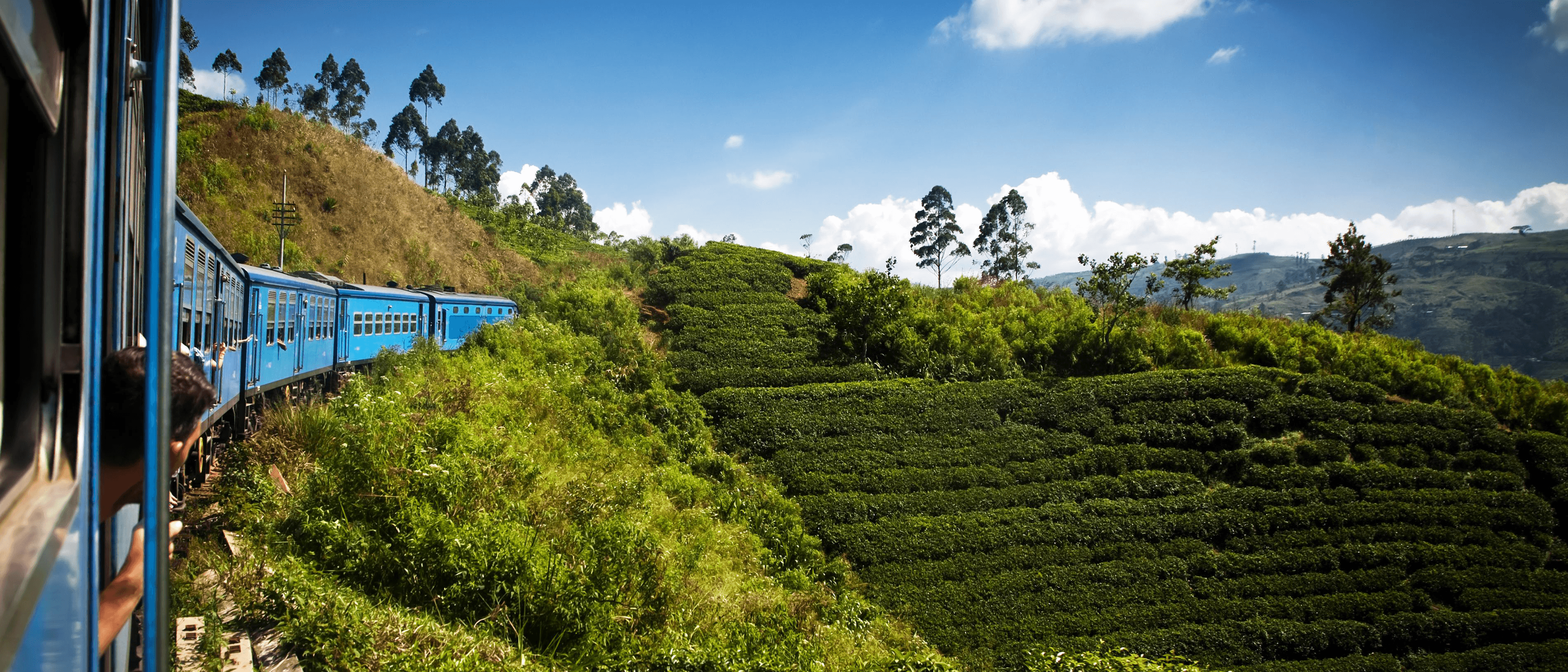
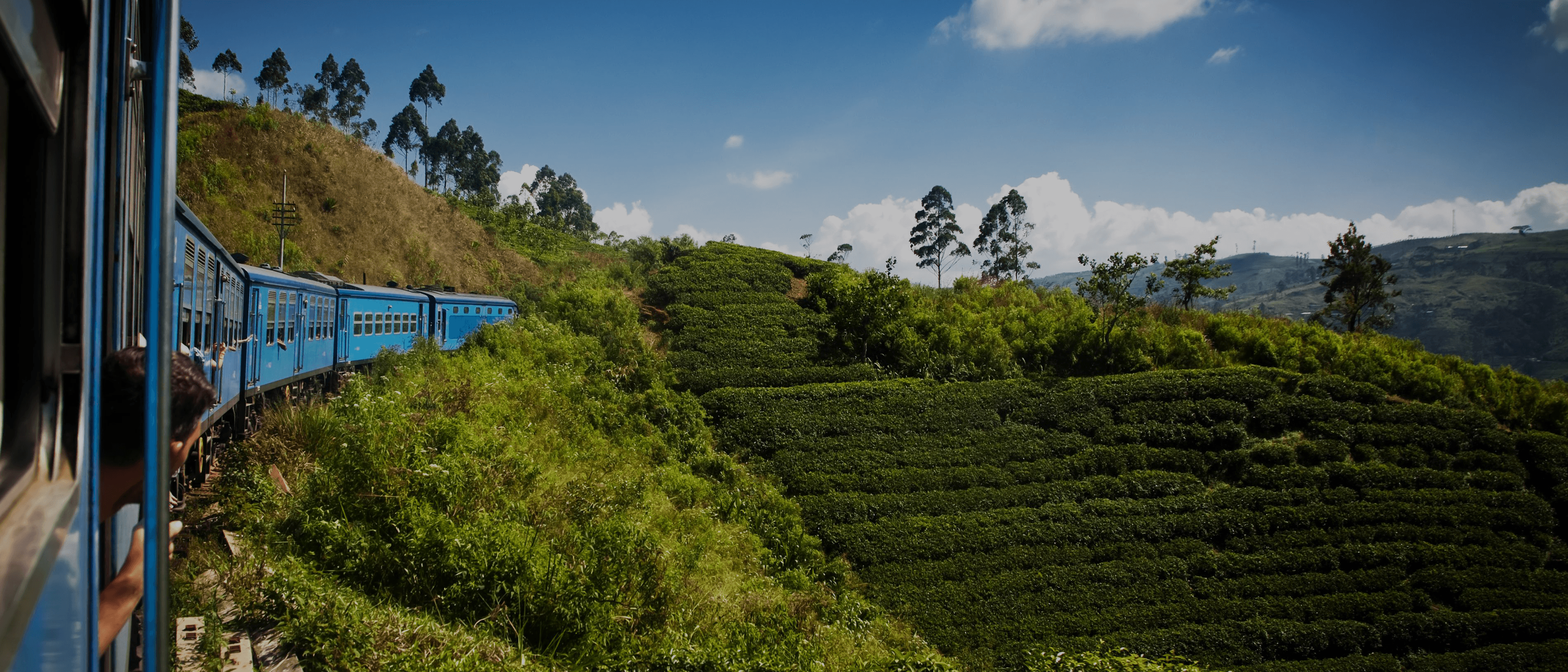
changed header

diff --git a/index.html b/index.html
@@ -7,28 +7,61 @@
         <script src="js/script.js"></script>
     </head>
     <body>
+        <!--Header--
         <div class="header">
             <div class="logo">
-                <img src="img/logo.png">
+                <img src="img/logo.png" width="75px">
             </div>
             <div class="title">
-               <h3>Travel</h3>
+               Travel
             </div>
             <div class="nav">
                 <a href="page2.html">Page 2</a>&emsp;
                 <a href="page3.html">Page 3</a>&emsp;
                 <a href="page4.html">Page 4</a>&emsp;
             </div>
-        </div>
+        </div>-->
+
+        <!-- Body-->
         <div class="body">
-            <h1 class="b-h1">Welcome To Travel</h1>
-            <img class="main-img" src="img/main-background.png">
+            <div class="b-img-container">
+
+                <div class="header">
+                    <div class="logo">
+                        <img src="img/logo.png" width="75px">
+                    </div>
+                    <div class="title">
+                        Travel
+                     </div>
+                    <div class="nav">
+                        <a href="page2.html">Page 2</a>&emsp;
+                        <a href="page3.html">Page 3</a>&emsp;
+                        <a href="page4.html">Page 4</a>&emsp;
+                    </div>
+                    <div>
+                        &nbsp;
+                    </div>
+                    <div>
+                        <hr width="85%">
+                    </div>
+                </div>
+                <img class="main-img" src="img/main-background.png">
+                <div class="img-details">
+                    <div class="b-h1">WELCOME TO TRAVEL</div>
+                    <div class="b-description">
+                        A Small Description About The Company And The Site
+                    </div>
+                </div>
+            </div>
+            
             <h2>Our Services</h2>
             <p>
                 Services Lists And Description
             </p>
             
         </div>
+
+        <!--Footer-->
         <div class="footer">
             <div class="f-container">
                 <div class="f-logo">

diff --git a/css/styles.css b/css/styles.css
@@ -4,43 +4,54 @@ html,body
     padding: 0%;
     font-family:"Montserrat";
 }
-footer
-{
-    position: fixed;
-}
 .header
+{
+    width: 100%;
+    position:absolute;
+    color: white;
+    margin-left: 0px;
+    margin-right: 0px;
+    padding-top: 10px;
+    padding-bottom: 10px;
+    text-align:right;
+    font-size: 30px;
+}
+/*.header
 {
     margin-left: 0px;
     margin-right: 0px;
     padding-top: 10px;
     padding-bottom: 40px;
-    background-color:antiquewhite;
     text-align: right;
     font-size: 30px;
-}
+}*/
 .logo
 {
     float: left;
 }
 .title
 {
+    float:left;
+    padding-top: 15px;
+    font-size: larger;
+    font-weight: bold;
     padding-left: 20px;
-    float: left;
+    
 }
 .nav
 {
-    padding-top: 35px;
+    padding-top: 15px;
 }
 .nav a:link
 {
-    color: black;
+    color:white;
     text-decoration: none;
     font-size:large;
     font-weight: bold;
 }
 .nav a:visited
 {
-    color: black;
+    color:white;
 }
 .footer
 {
@@ -86,10 +97,31 @@ footer
 {
     padding-left: 10px;
 }
+
+.b-img-container
+{
+    width: 100%;
+    text-align: center;
+    position: relative;
+}
+.img-details
+{
+    width: 100%;
+    text-align: center;
+    position:absolute;
+    top: 40%;
+    bottom:50%;
+    color: white;
+}
 .b-h1
 {
+    font-size: 120px;
+    font-weight:bold;
     text-align: center;
-    color: darkblue;
+}
+.b-description
+{
+    font-size: larger;
 }
 .main-img
 {
